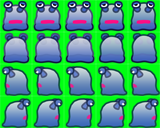
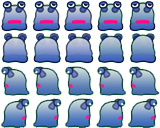
Added transparent sprite sheets, shortened flicker, and fixed teleporter animation.

diff --git a/entities.js b/entities.js
@@ -137,7 +137,7 @@ var PlayerEntity = me.ObjectEntity.extend({
             // if we collide with an enemy
             if (res.obj.type == me.game.ENEMY_OBJECT) {
                 // Flicker if we touched an enemy
-                this.flicker(20);
+                this.flicker(5);
             }
         }
         
@@ -171,7 +171,7 @@ var TeleporterEntity = me.CollectableEntity.extend({
     },
     
     onCollision: function() {
-        this.setCurrentAnimation('on');
+        this.setCurrentAnimation('on', 'off');
     }
     
 });
